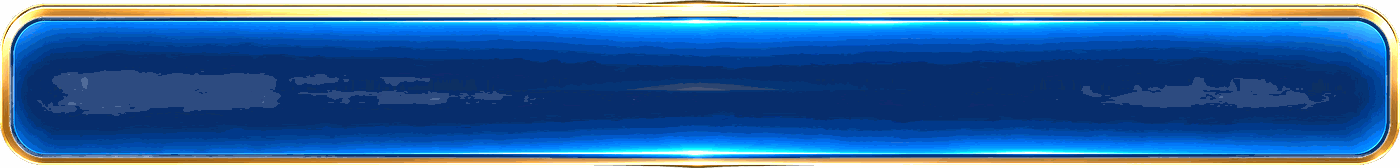
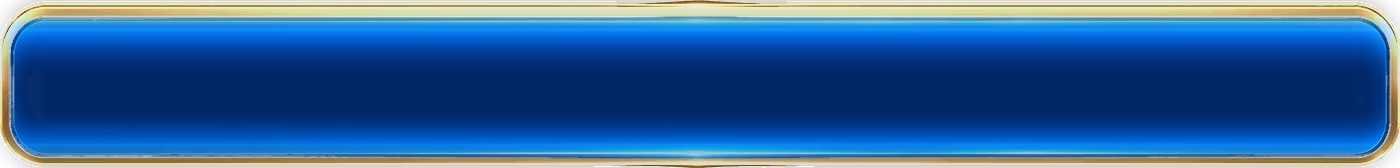
结算行底：正分用金卡、非正分用普通蓝底
新增普通行底 settlement_card_row_normal.png 与独立 meta；战绩玩家对象 prefab 增加默认隐藏的「底_普通」子节点，panelRecordInfo 按 score>0 切换根 Sprite 与普通底。两张行底内部改为逐行中值重建的平滑渐变并强制不透明，金卡保留原金边与 UUID。素材已完成 Creator 导入，未构建/热更/真机。

diff --git a/assets/scripts/UI/panelRecordInfo.ts b/assets/scripts/UI/panelRecordInfo.ts
@@ -493,6 +493,14 @@ export default class panelRecordInfo extends UIPanelViewBase {
             node.getChildByName("输赢").color = cc.color(255, 242, 216, 255);
         }
 
+        // 结算行底：只有赢分为正数才用金色卡片底，其余（负数/零）用普通蓝底
+        let bgGold = node.getComponent(cc.Sprite);
+        if (bgGold != null)
+            bgGold.enabled = nScore > 0;
+        let bgNormal = node.getChildByName("底_普通");
+        if (bgNormal != null)
+            bgNormal.active = !(nScore > 0);
+
         //惩罚问题
         if (arrayTemp[9] != "0" && arrayTemp[9] != "")
         {

diff --git a/docs/memory/handoffs/2026-11-18-settlement-row-normal-card.md b/docs/memory/handoffs/2026-11-18-settlement-row-normal-card.md
@@ -1,0 +1,50 @@
+# 牌局结算列表按输赢正负切换行底（2026-11-18）
+
+分支 `codex/club-ui`，工作目录 `/Volumes/SSD/qing`。**未构建、未热更、未真机验证**；Creator 已导入资源与 Prefab。
+
+## 目标
+
+用户给结算界面截图，指出：列表里只有「输赢为正」的人用现有金色背景条，负数（及非正数）显示普通背景条；普通底图由图片技能生成。
+
+## 素材
+
+- 新建 `assets/V7/settlement_card_row_normal.png`：1400×168，RGBA 未量化，59,164 B（金卡原图 18,208 B）。
+- 新建独立 `.meta`（texture `1c0a8c3d-63d1-43a9-80a3-afa354870fc2`，sprite-frame `33f21cbe-9047-4dfc-8cd4-a1e0da9fc45e`），`trimType:none`、`packable:false`，与金卡 meta 同构。
+- **金卡 `settlement_card_row.png` 同日二次重做**：两个 `image_gen` 金卡候选的金边四边亮度不一致（顶边发暗、内发光集中在下边），未采用。最终保留原金边与外发光，只把内部逐行中值重建为平滑渐变（内缩 16px、羽化 12px），并把内部 alpha 强制为不透明——原图内部本身有半透明条纹，是实机“褶皱”的另一来源。改后 1400×168、39,196 B，**文件名/UUID 不变（sprite-frame `105c883c…`）**，4 个共用该图的 prefab 引用不受影响。
+
+生成与后处理（第二版，第一版实机被反馈"压缩出皱纹、不丝滑"）：
+
+1. 第一版 `image_edit` 用金卡做形状母版 + 截图配色，黑底出图后抠图、内部高斯模糊压平；实机 700×100 下仍能看到低对比涂抹和明暗斑块，已废弃。
+2. 第二版改用 `image_gen` 透明背景直接出图（8.33:1，实返 4434×532），提示词要求长条铺满画面、小圆角、纯平滑渐变、无褶皱云斑，得到干净的细描边外框。
+3. 裁内容后重排到 1400×168；再**用逐行中值重建内部**：每行取中央 x 区中值颜色，9 行滑动平均后整行填充，边缘 10px 内羽化保留原描边/高光。这样内部只剩一条数学平滑的竖向渐变，不会再有涂抹纹理。
+4. **不做 256 色量化**：量化后渐变出现 8 级台阶（放大 8 倍可见横带），对细长卡片太明显；改用 8-bit RGBA 直出（59 KB）。
+
+对照图：`design-previews/结算改版-20261118/普通底条对照.png`（上金卡、下普通卡，均按实际 700×100 缩放）。
+
+## Prefab / 脚本
+
+`assets/resources/Prefabs/战绩玩家对象.prefab`
+
+- 根节点 Sprite 不变（金卡）。
+- 新增首个子节点「底_普通」：Sprite 指向 `33f21cbe…`，700×100、锚点 0.5、位置 (0,0)、`_active=false`；作为第 0 个子节点画在头像/文字之下，根 Sprite 关闭时由它显示普通底。
+- 新增 `cc.PrefabInfo`（root=1，fileId 唯一），未改其他节点。
+
+`assets/scripts/UI/panelRecordInfo.ts` → `setRecordItemInfo`
+
+```ts
+let bgGold = node.getComponent(cc.Sprite);
+if (bgGold != null) bgGold.enabled = nScore > 0;
+let bgNormal = node.getChildByName("底_普通");
+if (bgNormal != null) bgNormal.active = !(nScore > 0);
+```
+
+- 正数：根 Sprite 显示金卡、普通底隐藏。
+- 负数/零：根 Sprite 关闭、普通底显示。
+- 行节点尺寸、Layout、Widget、文字与头像逻辑均未改；「逃跑被惩罚」行按总分判断（正分仍金底）。
+
+## 验证
+
+- 静态：meta sub-uuid 与 Prefab Sprite 引用一致；新节点在根 children 第 0 位、默认隐藏；fileId 无重复。
+- Creator 导入：sprite-frame `33f21cbe…` 22:04 首次导入、22:13 换为第二版贴图（1400×168，59 KB）；金卡贴图 `fed6f084…` 22:20 更新为平滑版（1400×168，39 KB）；prefab `f3e3…` 22:02 重导入并含「底_普通」。
+- 第二版按实际 700×100 缩放的对照图无可见横纹/云斑；金卡 1:1 放大后内部无条纹灰斑，原内部的半透明条纹已消除。
+- 未做：Creator 内目视、游戏运行、1334/1624 两档离屏核对（底条与行节点同尺寸，布局未动）、构建/热更/真机。

diff --git a/docs/memory/CURRENT.md b/docs/memory/CURRENT.md
@@ -4,6 +4,12 @@
 
 规则见 `AGENTS.md`；版本与 UI 见 [决策](DECISIONS.md)、[专题](topics/v7-ui.md)。未发布与待验证汇总见[剩余问题清单](handoffs/2026-10-28-open-issues-backlog.md)。
 
+## 2026-11-18 牌局结算行底：正分金卡、非正分普通蓝底（脚本就绪，未构建/热更/真机）
+
+- `settlement_card_row.png`（金卡）与 `settlement_card_row_normal.png`（普通，sprite-frame `33f21cbe…`）均 1400×168、RGBA 未量化；内部改为逐行中值重建的平滑渐变并强制不透明——原图内部的半透明条纹就是实机“褶皱”来源。金卡保留原金边/外发光，同名同 UUID，共用 prefab 引用不变。
+- `战绩玩家对象.prefab` 新增首个子节点「底_普通」（700×100、默认隐藏）；`panelRecordInfo.setRecordItemInfo` 按 `nScore > 0` 切换根 Sprite 与普通底。
+- Creator 已导入（prefab 22:02、普通图 22:13、金卡 22:20）；未构建/热更/真机。详见[交接](handoffs/2026-11-18-settlement-row-normal-card.md)。
+
 ## 2026-11-18 下注位「芒N」残留保护性修复（发牌 + 每条消息双触发；脚本就绪，未构建/热更/真机）
 
 - 现象：庄家下注位长期停在「芒12／芒15」，或该显示带分/下注额的位置空着。链路：投芒收尾时 `beicount` 仍为 0 → 走 `ShowMangPayCount(bKeepWhenNoBet)` 把「芒N」写进 `strKeepCoin` 且不设过期 → 庄家走带分、不触发 `东家_下注_事件`，`带分_结束_事件` 分支为空，该座位之后再收不到自己的消息，无人纠正。
